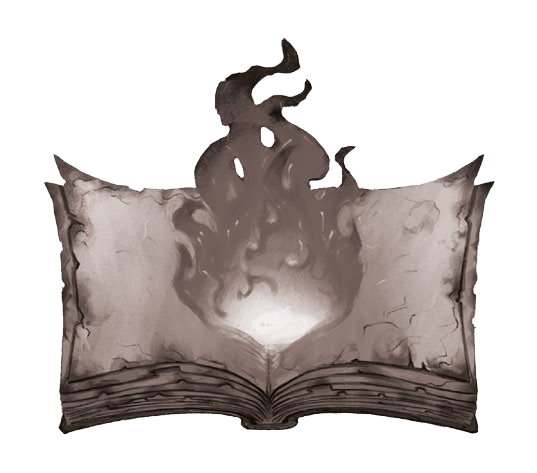
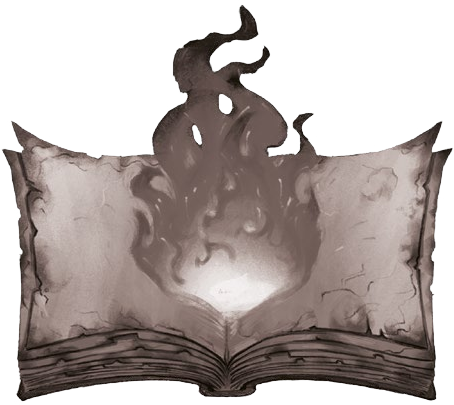
Fix art on lore page and intro

diff --git a/sections/title_with_toc.tex b/sections/title_with_toc.tex
@@ -65,7 +65,7 @@
 
 \AddToHookNext{shipout/background}{%
   \iftoggle{noartbackground}{}{
-    \put (\iftoggle{printable}{0.05\paperwidth}{0.03\paperwidth},-0.75\paperheight){\transparent{0.15}{\includegraphics[width=0.9\paperwidth]{\art/minotaur_crusader_skeleton.png}}}%
+    \put (\iftoggle{printable}{0.005\paperwidth}{0.03\paperwidth},-0.75\paperheight){\transparent{0.15}{\includegraphics[width=0.9\paperwidth]{\art/minotaur_crusader_skeleton.png}}}%
   }%
   \iftoggle{printable}{
     \drawbottom

diff --git a/sections/introduction.tex b/sections/introduction.tex
@@ -90,8 +90,8 @@ Images with map locations from expansions are marked with a label below them:
 
 \vfill
 
-\begin{tikzpicture}[remember picture, overlay]
-  \node[opacity=0.15] at ([xshift=11em, yshift=14.5em]current page.south) {\includegraphics[width=1.2\linewidth]{\art/tome_of_fire_magic.png}};
-\end{tikzpicture}
+\begin{center}
+  \transparent{0.15}{\includegraphics[width=1.05\linewidth]{\art/tome_of_fire_magic.png}}
+\end{center}
 
 \end{multicols*}
